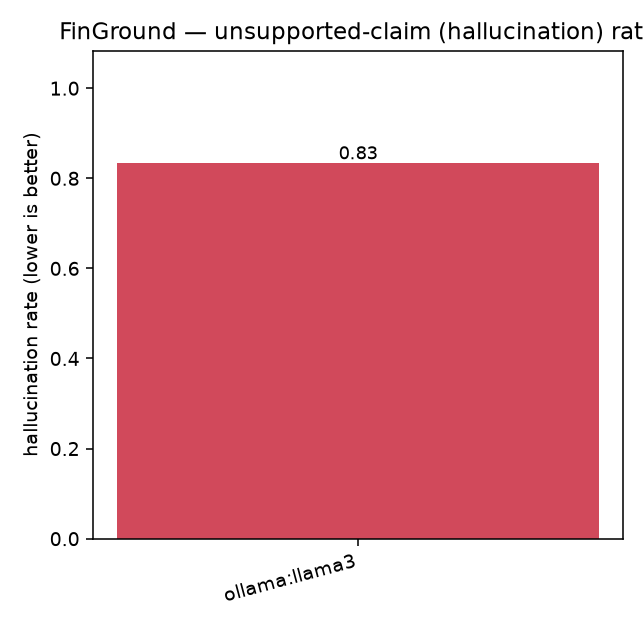
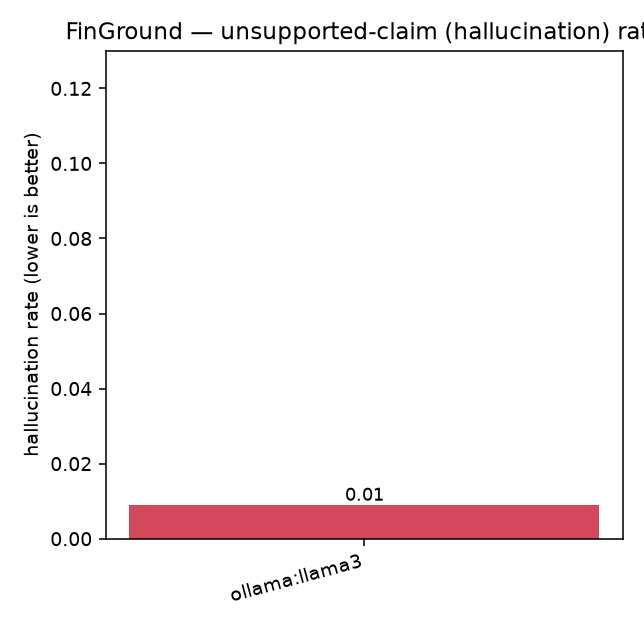
Re-run benchmark after accuracy fixes: correctness 0.067 -> 0.538, hallucination 0.833 -> 0.009
Same model (ollama:llama3), same gold set, fixed pipeline:
- correctness       0.067 -> 0.538
- citation_accuracy 0.179 -> 0.885
- hallucination     0.833 -> 0.009
- refusal_cal       0.600 -> 1.000
Root cause of the old numbers was Ollama's default num_ctx silently truncating
the system rules and question out of the prompt. README documents the lesson
and this run's caveats (3 transient Ollama 500s skipped; small n). Charts and
results table regenerated from the real run.

diff --git a/README.md b/README.md
@@ -78,7 +78,7 @@ Models whose API key was not present at run time are marked **N/A** — never in
 | openai:gpt-4o | N/A | N/A | N/A | N/A | N/A | N/A | 20 | 0 |
 | openai:gpt-4o-mini | N/A | N/A | N/A | N/A | N/A | N/A | 20 | 0 |
 | anthropic:claude-sonnet-5 | N/A | N/A | N/A | N/A | N/A | N/A | 20 | 0 |
-| ollama:llama3 | 0.067 | 0.179 | 0.833 | 0.600 | 60.42 | 0.0000 | 20 | 19 |
+| ollama:llama3 | 0.538 | 0.885 | 0.009 | 1.000 | 52.19 | 0.0000 | 20 | 15 |
 <!-- RESULTS_TABLE_END -->
 
 **Charts** (`results/charts/`, regenerate with `make charts`):
@@ -103,6 +103,20 @@ Judge model: `ollama:llama3` · n = 13 examples
 > answerer and the judge. A stronger hosted judge (GPT-4o / Claude) would raise
 > correctness agreement; faithfulness agreement is already strong. Re-run with your
 > own keys to populate the hosted-model rows.
+>
+> **Caveats on this run:** 3 of 20 items hit transient Ollama 500s and were
+> skipped (the runner records and continues), so refusal calibration was computed
+> over 19 decisions and claim/citation metrics over the 13 answered-and-judged
+> items. Small-n numbers; treat as directional.
+>
+> **A measured lesson in silent truncation.** An earlier committed run scored
+> correctness 0.067 / hallucination 0.833 with this same model. The cause was not
+> the model: Ollama's default ~2k `num_ctx` silently truncated the front of the
+> RAG prompt, cutting off the system rules and the question itself. Fixing
+> `num_ctx` (plus excerpts-first prompt order, semantic refusal detection, and
+> company-aware retrieval) moved correctness to 0.538 and hallucination to 0.009
+> — an 8× / 90× swing from configuration, not parameters. The eval harness is
+> what made the bug visible.
 
 ---
 
